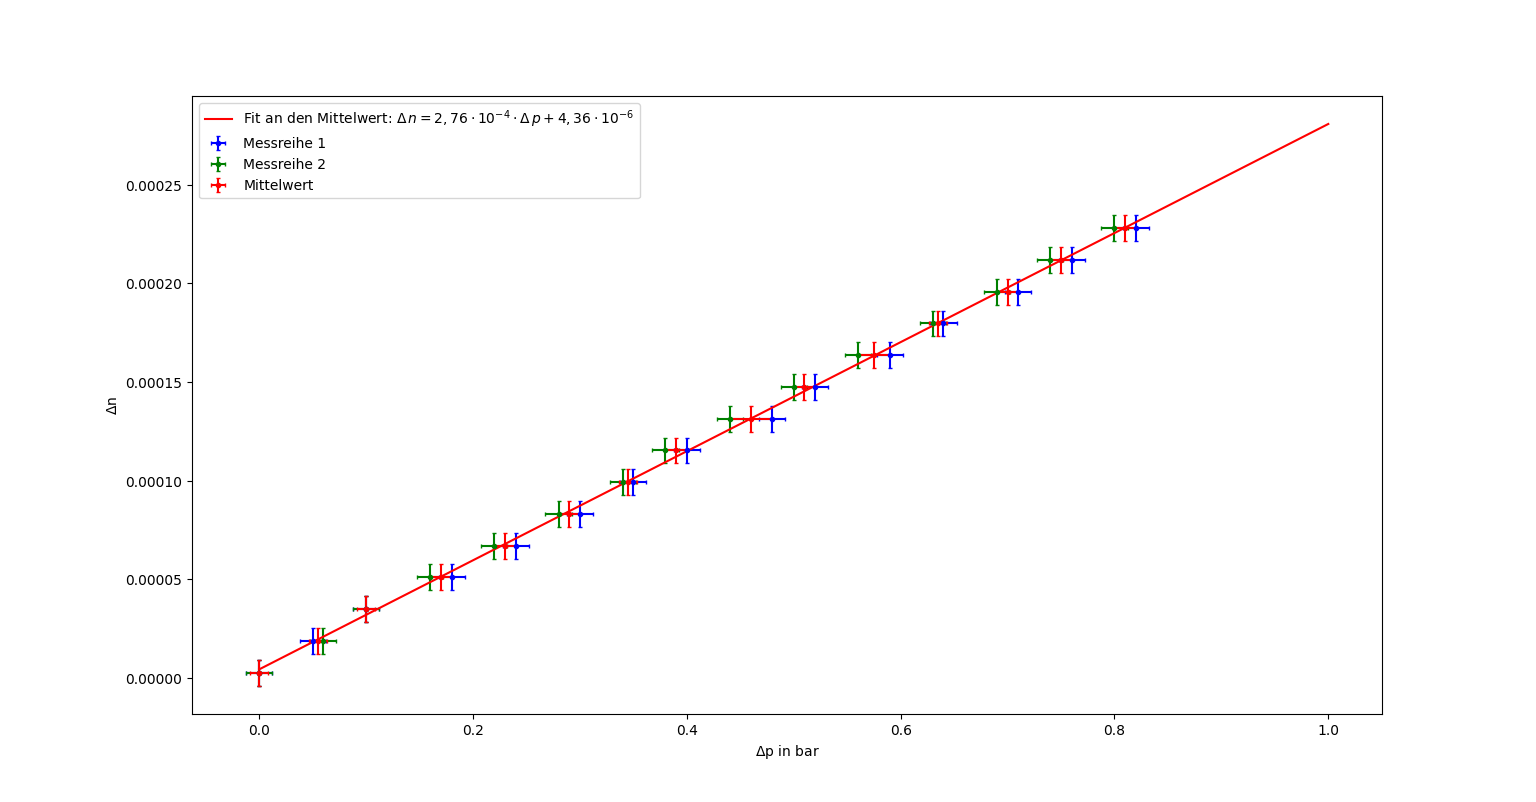
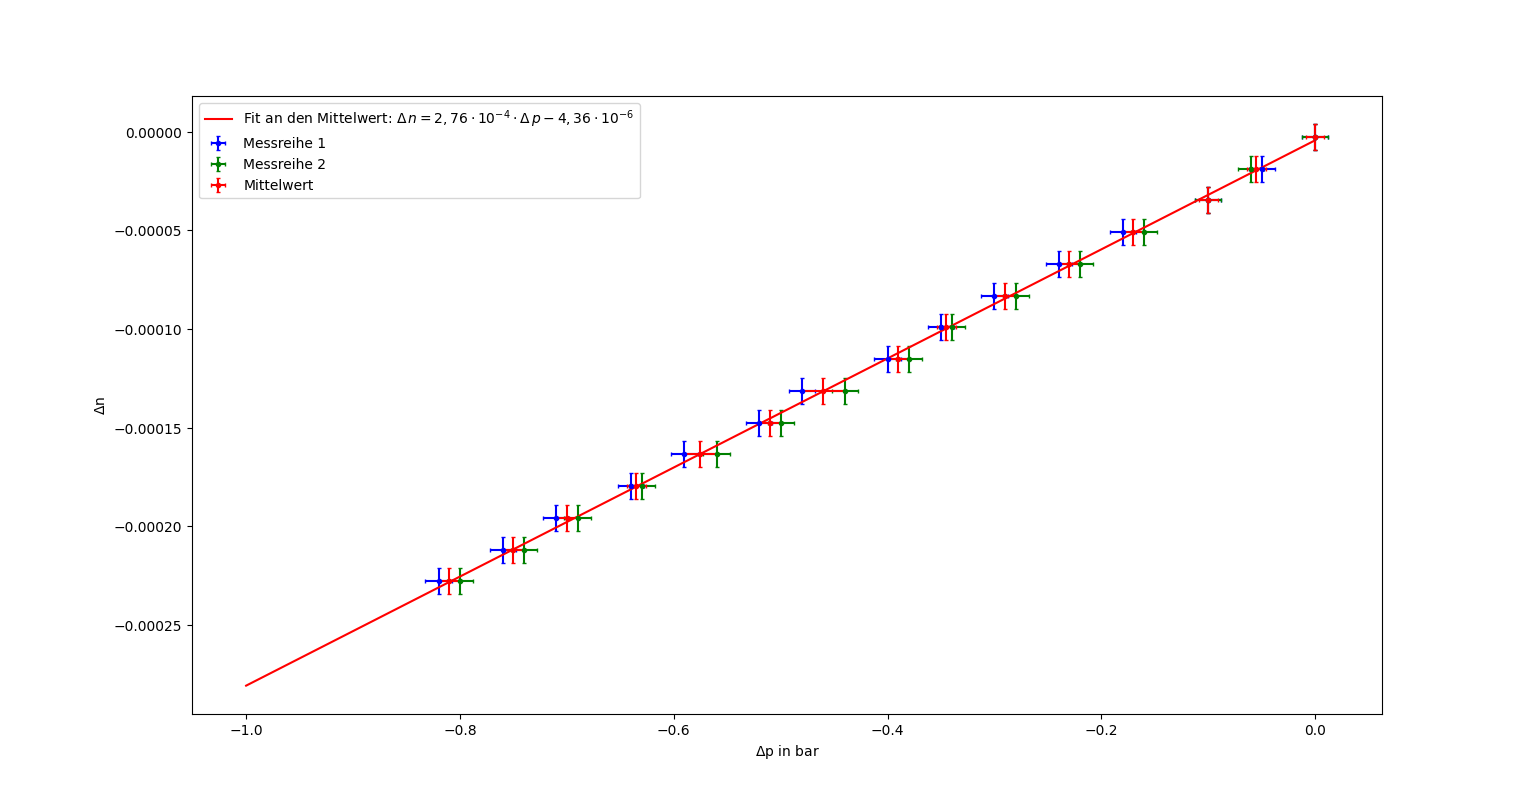
int

diff --git a/INT_Druck.py b/INT_Druck.py
@@ -122,10 +122,13 @@ def func(p,a,b):
 popt3, pcov3 = curve_fit(func, xdata=nominal_values(mittel), ydata=nominal_values(brech(max)))
 ax.plot(np.linspace(-1, 0, 100), func(np.linspace(-1, 0, 100), popt3[0],popt3[1]),
         'red',
-        label='Fit an den Mittelwert: $\Delta \, n = 2,76\cdot 10^{-4} \cdot \Delta\, p + 4,36 \cdot 10^{-6}$')
+        label='Fit an den Mittelwert: $\Delta \, n = 2,76\cdot 10^{-4} \cdot \Delta\, p - 4,36 \cdot 10^{-6}$')
 
 print(popt3)
 print(np.sqrt(pcov3))
+steig = ufloat(2.764*10**(-4),1.66*10**(-6))
+Temp=ufloat(295.6,0.1)
+print(steig*Temp)
 ax.set_xlabel("$\Delta$p in bar")
 ax.set_ylabel(r"$\Delta$n")
 plt.legend()
